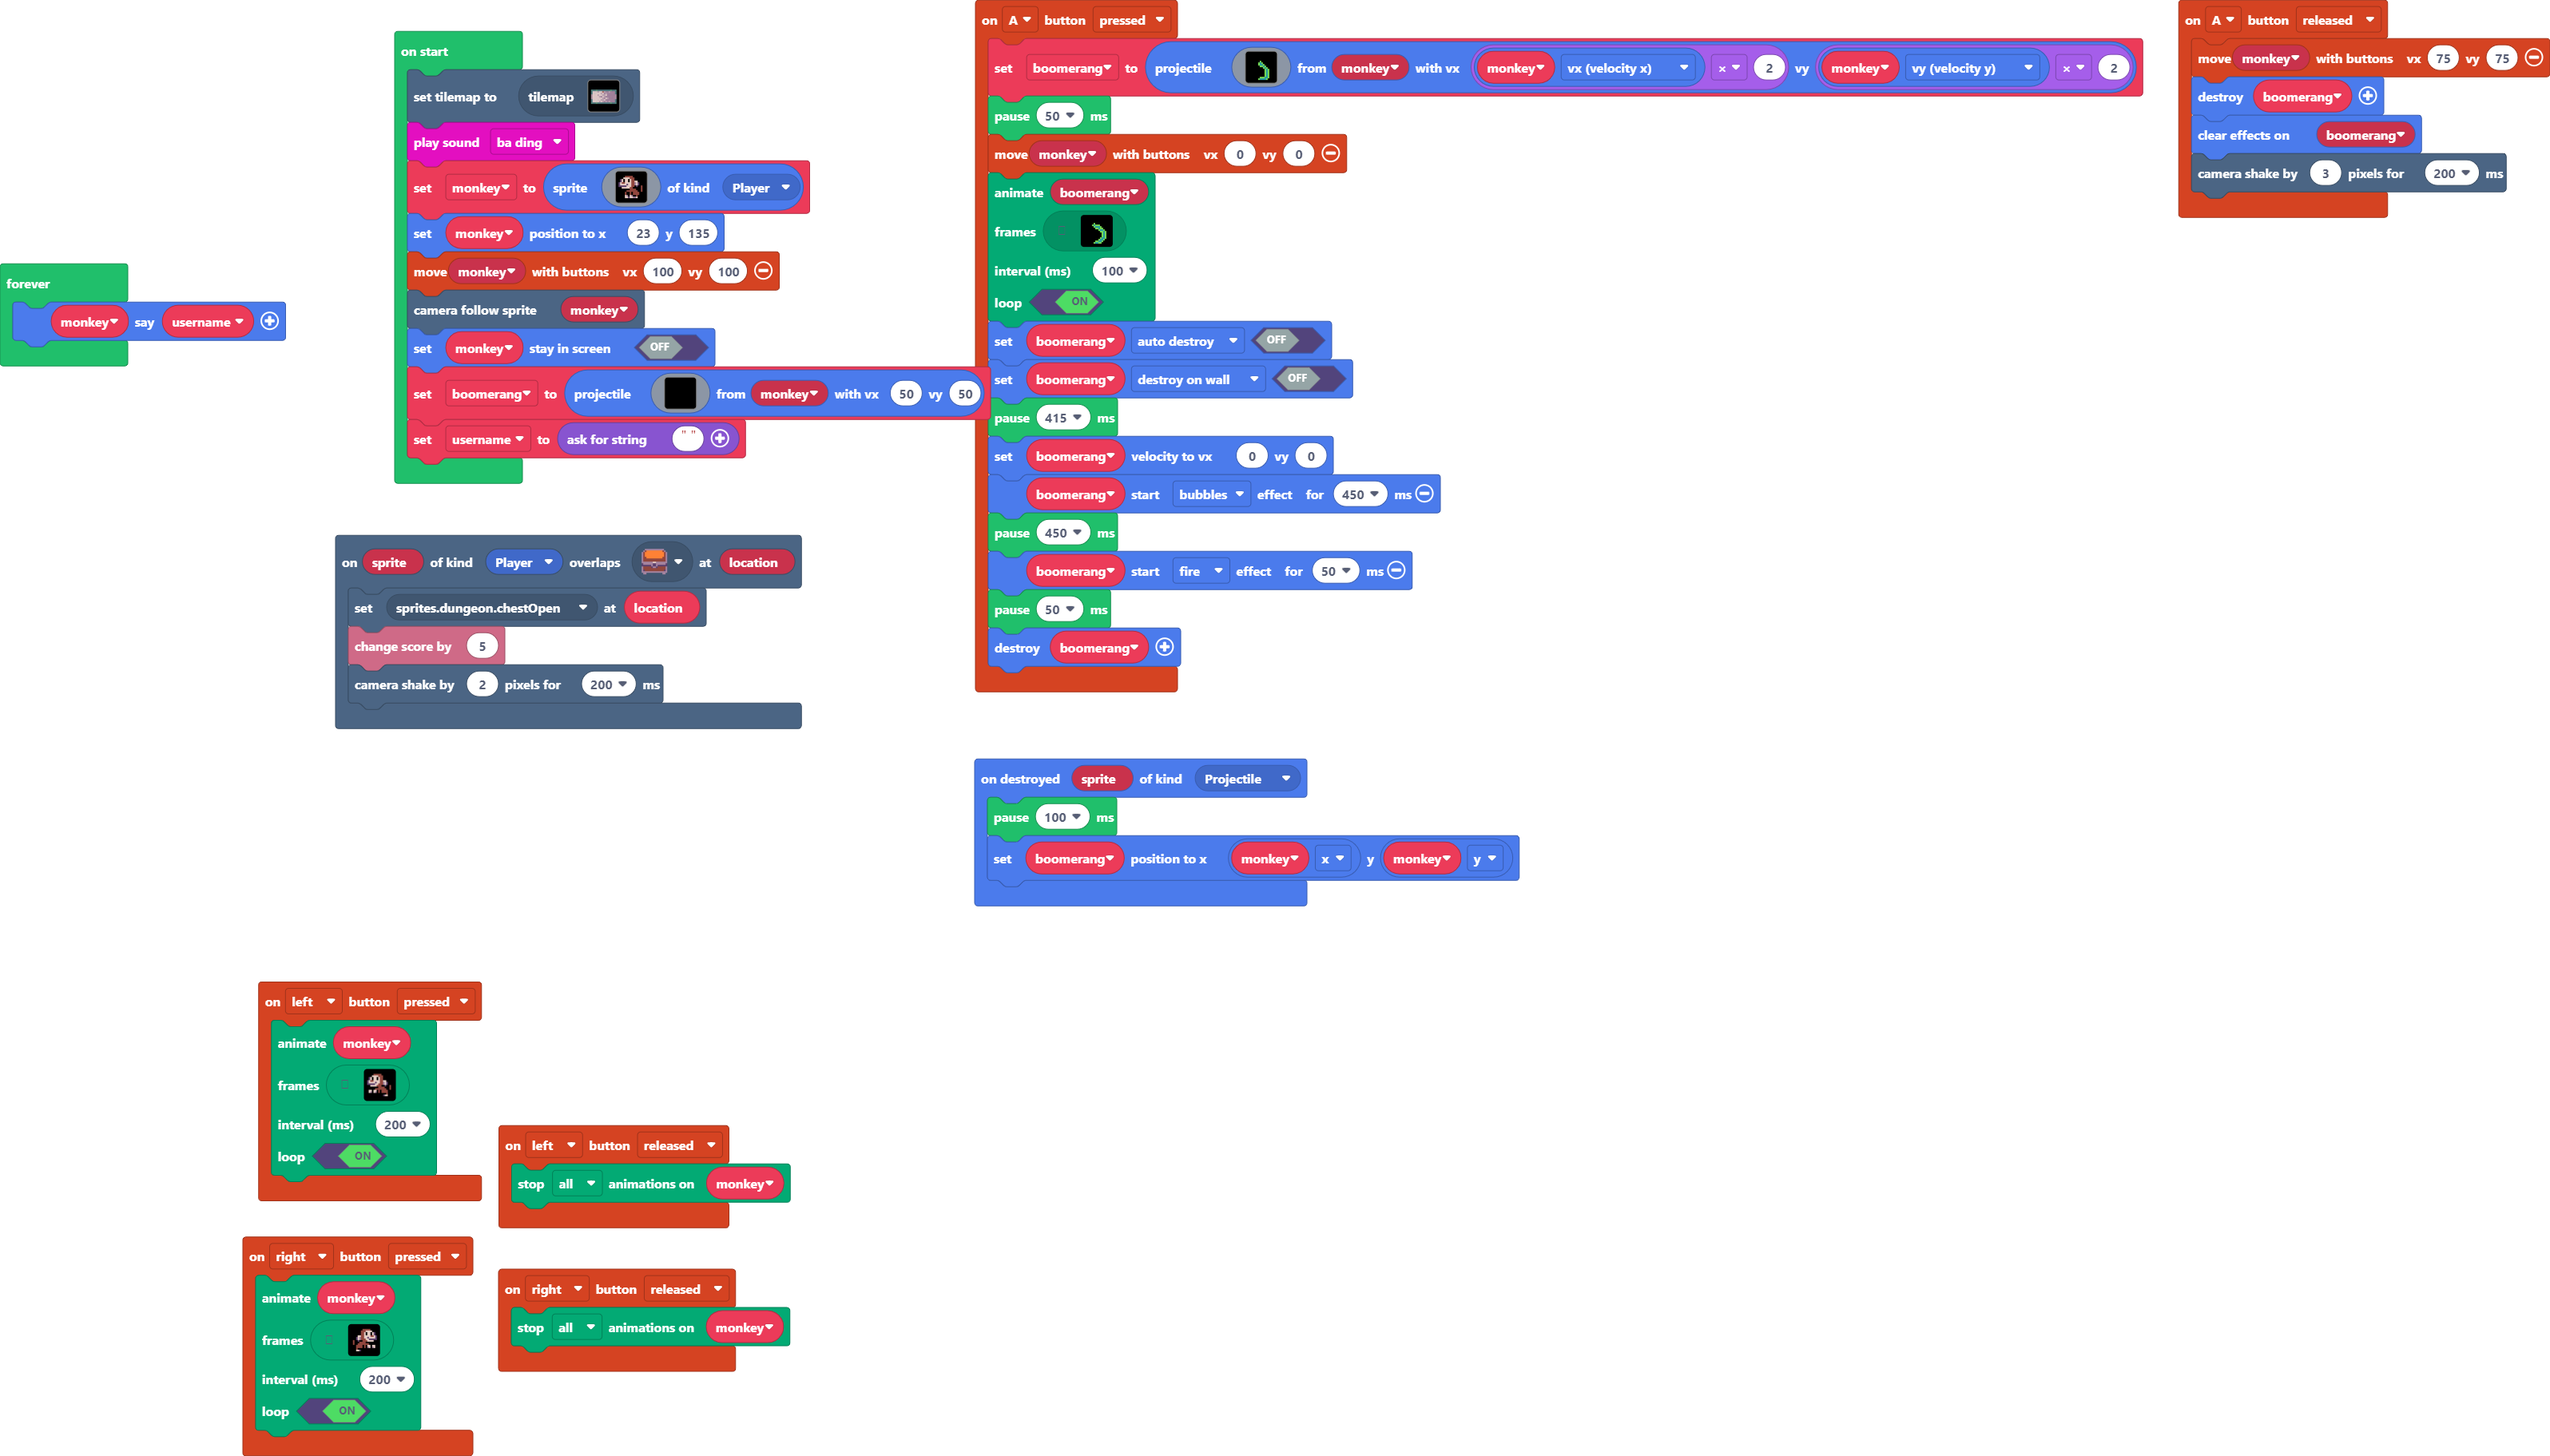
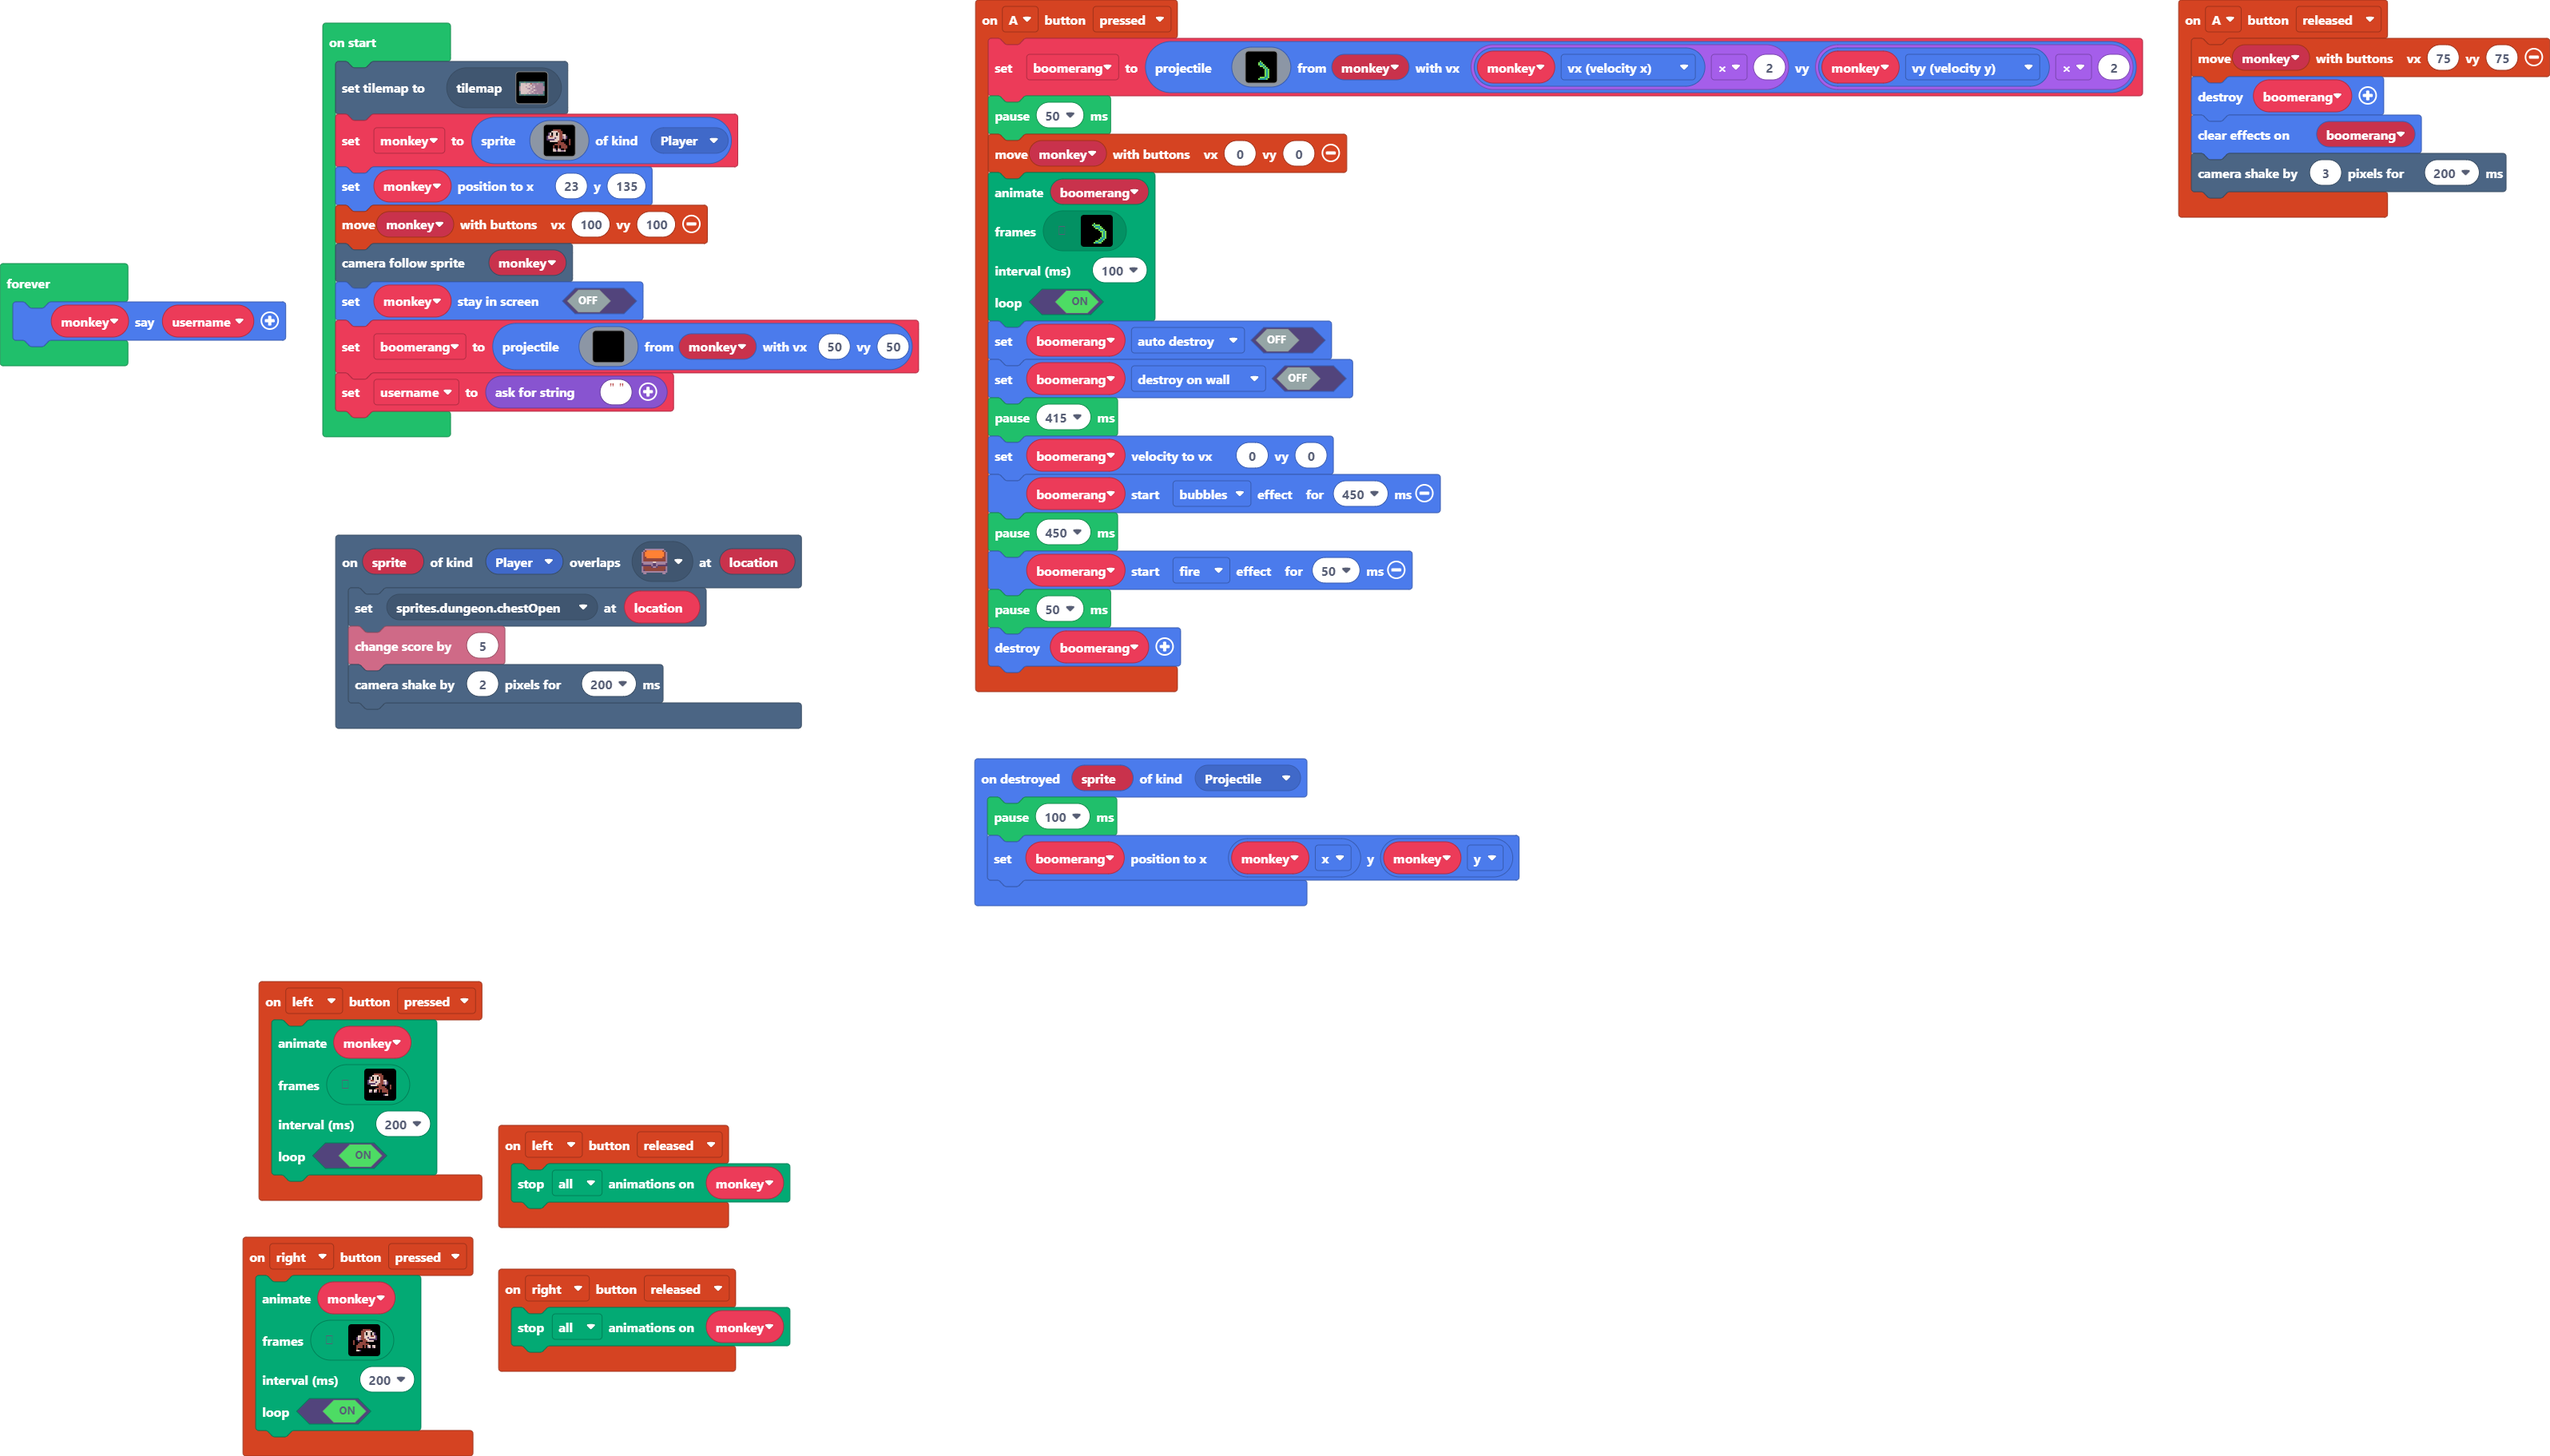
Update pxt.json, main.blocks, main.ts

diff --git a/main.ts b/main.ts
@@ -347,7 +347,6 @@ sprites.onDestroyed(SpriteKind.Projectile, function (sprite) {
 let boomerang: Sprite = null
 let monkey: Sprite = null
 tiles.setCurrentTilemap(tilemap`level1`)
-music.baDing.play()
 monkey = sprites.create(img`
     . . . . f f f f f . . . . . . . 
     . . . f e e e e e f . . . . . . 
